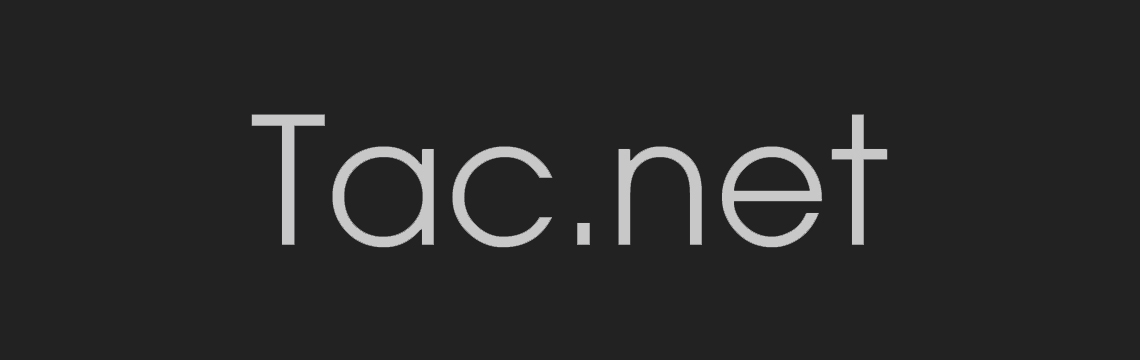
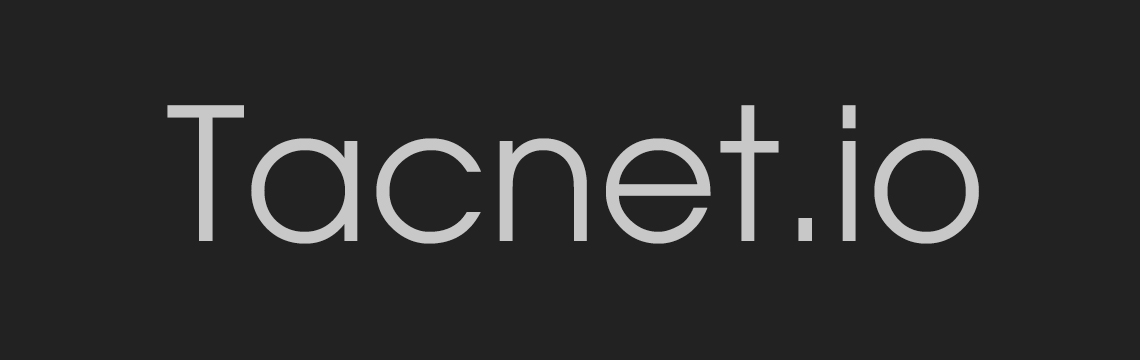
Edit domain name

Changed region(s): [[0.1228, 0.275, 0.8596, 0.7028]]

diff --git a/tacnet/apps/base/templates/base/base.html b/tacnet/apps/base/templates/base/base.html
@@ -1,7 +1,7 @@
 <!DOCTYPE html>
 <html>
   <head>
-    <title>Tacnet</title>
+    <title>Tacnet.io</title>
     <meta name="viewport" content="width=device-width, initial-scale=1.0, maximum-scale=1.0, user-scalable=no">
     <link rel="shortcut icon" href="/static/img/icons/favicon.ico">
     <!-- Bootstrap -->
@@ -35,7 +35,7 @@
               <span class="icon-bar"></span>
               <span class="icon-bar"></span>
             </button>
-            <a class="navbar-brand" href="/"><span class="glyphicon glyphicon-eye-open"></span> Tac.net</a>
+            <a class="navbar-brand" href="/"><span class="glyphicon glyphicon-eye-open"></span> Tacnet.io</a>
           </div>
 
           <div class="collapse navbar-collapse" id="bs-example-navbar-collapse-1">

diff --git a/tacnet/apps/tacsketch/templates/tacsketch/tac.html b/tacnet/apps/tacsketch/templates/tacsketch/tac.html
@@ -107,7 +107,7 @@
               <div class="modal-body">
 
                 <div class="form-group">
-                    <label for="id_email">Email address *</label>
+                    <label for="id_email">Email address * <i>We use this e-mail to contact you if we have some questions</i></label>
                     <input id="id_email" maxlength="75" name="email" type="text" class="form-control">
                 </div>
                 <div class="form-group">

diff --git a/tacnet/files/static/js/tacsketch.js b/tacnet/files/static/js/tacsketch.js
@@ -273,7 +273,7 @@ $(document).ready(function () {
         // More maps
         $('.moreMaps').click(function(){
             hidePopover($("#chooseMap"));
-            $('#myModal').modal('toggle', {
+            $('#moreMapsModal').modal('toggle', {
               keyboard: false
             });
         });
@@ -355,5 +355,7 @@ $(document).ready(function () {
     $('.decreaseBrush').click(function(){
         decreaseBrush();
     });
+
+
 
 });
